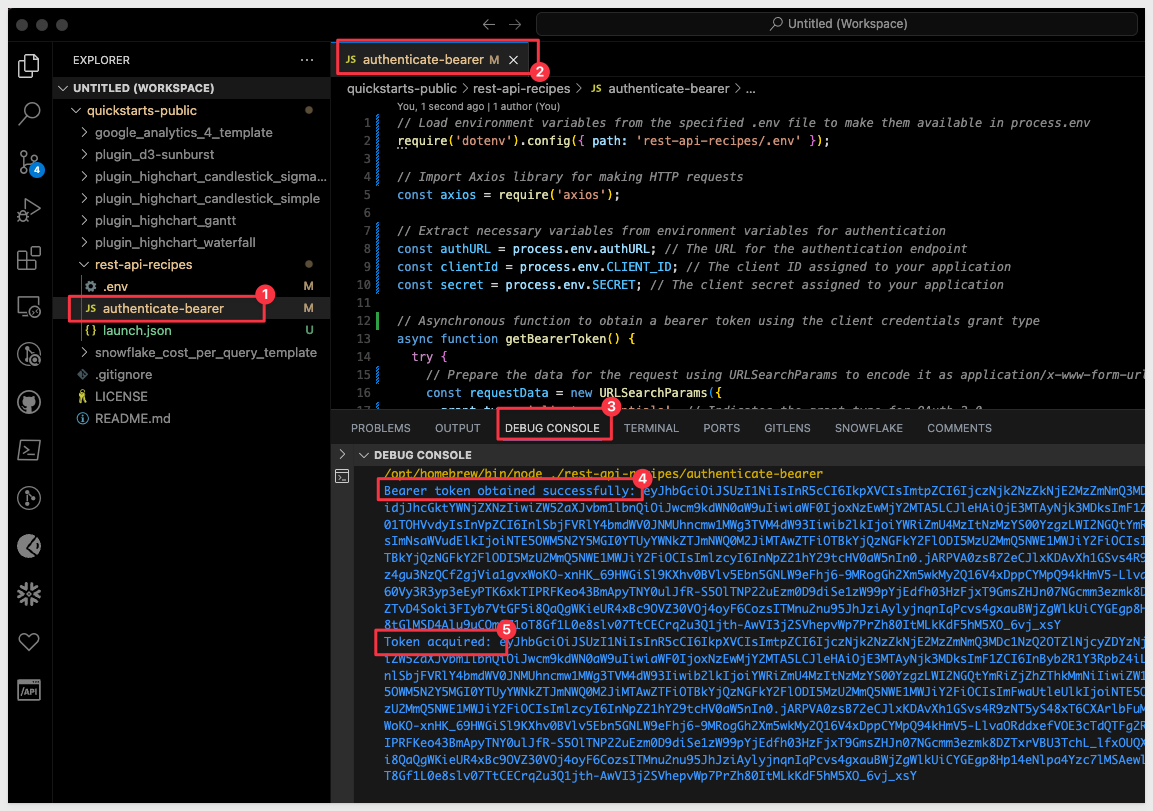
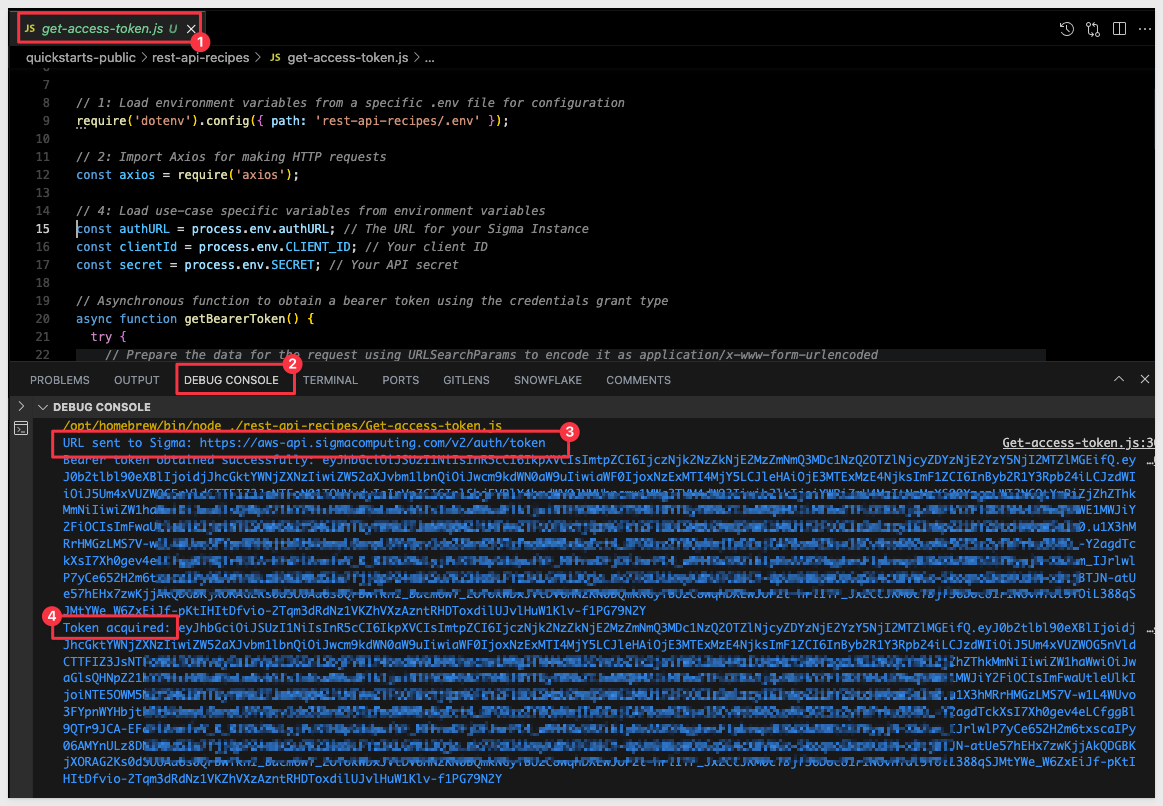
wip

diff --git a/site/sigmaguides/src/administration_api_code_samples/administration_api_code_samples.md b/site/sigmaguides/src/administration_api_code_samples/administration_api_code_samples.md
@@ -15,7 +15,9 @@ Duration: 5
 
 This QuickStart is designed to support Sigma's [API Code Samples](https://help.sigmacomputing.com/recipes) and will demonstrate some common operations that customers may use the REST API for.
 
-All code samples provided here are based on javaScript, although [Sigma's Swagger](https://help.sigmacomputing.com/reference/explanation) provides code snippets for all the most common languages.
+The actual code shown is available in Sigma's [quickstart-public git repository](https://github.com/sigmacomputing/quickstarts-public)
+
+All code samples provided here are based on javaScript, although [Sigma's Swagger](https://help.sigmacomputing.com/reference/explanation) provides code snippets for all the most common languages, including [curl.](https://curl.se/)
 
 ### Target Audience
 Developers who are evaluating or working with Sigma's REST API. 
@@ -168,25 +170,28 @@ Save the file.
 <!-- END OF SECTION-->
 
 ## Authentication - REQUIRED
-In this step, we will look at a script that authenticates to the [get access token endpoint](https://help.sigmacomputing.com/reference/token) and returns a bearer token (token)
+This section demonstrates the code that was provided on the `API Code Samples` > `Authentication: Get Access Token` page, [located here.](https://help.sigmacomputing.com/recipes/authentication-get-access-token)
+
+In this step, we will look at a script that authenticates to the [get access token endpoint](https://help.sigmacomputing.com/reference/token) and returns a bearer token (token).
 
 <aside class="positive">
 <strong>IMPORTANT:</strong><br> The token is valid for 3599 seconds (just under one hour) and needs to be refreshed.
 </aside>
 
-It also exports a Javascript function to request a bearer token (token) each time it is called. We can reference this function from any other API scripts we create, saving time later.
+It also exports a Javascript function to request a bearer token (token) each time it is called. 
+
+We reference this function from other API scripts we create later, saving time and simplifying code.
 
 <aside class="positive">
 <strong>IMPORTANT:</strong><br> The token is valid for 3599 seconds (just under one hour) and needs to be refreshed. Our Javascript function will handle that.
 </aside>
 
-Open the file `authenticate-bearer` and review it's contents. Each section is commented so it can be understood. 
+
+In the project root directory, open the file `get-access-token.js` and review it's contents. Each section is commented so it can be understood. 
 
 Start the VSCode debugger against this code by pressing `F5` on your keyboard.
 
-If prompted by VSCode to select a debugger, select `Node.js`:
-
-<img src="assets/apics15.png" width="800"/>
+If prompted by VSCode to select a debugger, select `Node.js`.
 
 The VSCode debugger console will show this API response if the .env variables are configured correctly:
 
@@ -194,17 +199,52 @@ The VSCode debugger console will show this API response if the .env variables ar
 
 The script is configured to run standalone as well as export a function that we can call from other scripts too. 
 
+This is why we show the bearer token twice in the response. Other scripts that call this one, will only show the token one time in the console.
+
 The ability to run it standalone is only for convenience, so that we can verify it obtains a token.
 
-We can now move on to use cases, leveraging the `getBearerToken` function.
+We can now move on to use cases, leveraging the `getBearerToken` function:
+
+<img src="assets/apics21.png" width="800"/>
 
 ![Footer](assets/sigma_footer.png)
 <!-- END OF SECTION-->
 
-## Change a Members's Account Type
+## Members: List
 Duration: 20
 
-With our system setup and getting a bearer token from the authentication endpoint, we can try our first script. 
+We will start with a very simple example that calls the `Members` > `Get` endpoint, [found here.](https://help.sigmacomputing.com/reference/listmembers-1)
+
+This section demonstrates the code that was provided on the `API Code Samples` > `Member: List` page, [located here.](https://help.sigmacomputing.com/recipes/members-list)
+
+<aside class="positive">
+<strong>IMPORTANT:</strong><br> This script will call the get-access-token > getBearerToken function to get a new/refreshed token automatically so there is no need to do anything else, assuming you have completed the section of this QuickStart "Authentication - REQUIRED" and ensured your .env file is configured correctly.
+</aside>
+
+### Running the Script
+Open the file `list-simple.js` in the `members` folder:
+
+<img src="assets/apics23.png" width="800"/>
+
+Each code block is commented to explain what operations are being performed. 
+
+Press `F5` to run the script with VSCode's debugger. 
+
+The expected response is:
+
+<img src="assets/apics24.png" width="800"/>
+
+![Footer](assets/sigma_footer.png)
+<!-- END OF SECTION-->
+
+## Members: Update
+Duration: 20
+
+This section demonstrates the code that was provided on the `API Code Samples` > `Member: Update` page, [located here.](https://help.sigmacomputing.com/recipes/members-update)
+
+<aside class="positive">
+<strong>IMPORTANT:</strong><br> This script will call the get-access-token > getBearerToken function to get a new/refreshed token automatically so there is no need to do anything else, assuming you have completed the section of this QuickStart "Authentication - REQUIRED" and ensured your .env file is configured correctly.
+</aside>
 
 ### Create Test Member
 Let's create new member in Sigma to test with. 
@@ -235,7 +275,7 @@ NEW_MEMBER_TYPE=Creator
 
 <img src="assets/apics17.png" width="800"/>
 
-### Change Test Members's Account Type
+### Change Test Members' Account Type
 Our test user is currently a `Viewer` account type. We want to call the Sigma API endpoint to `Update the specified member` account type to `Creator`.
 
 <img src="assets/apics9.png" width="800"/>
@@ -243,7 +283,9 @@ Our test user is currently a `Viewer` account type. We want to call the Sigma AP
 We will be using the [Update the specified member](https://help.sigmacomputing.com/reference/updatemember-1) endpoint.
 
 ### Running the Script
-Open the file `change-member-account-type.js`. 
+Open the file `update.js` in the `members` folder:
+
+<img src="assets/apics22.png" width="800"/>
 
 Each code block is commented to explain what operations are being performed. 
 
@@ -260,16 +302,23 @@ A quick check against the member in Sigma shows them having the `Creator` accoun
 ![Footer](assets/sigma_footer.png)
 <!-- END OF SECTION-->
 
-## Workbooks Last Accessed for a Member
+## Members: Recent Workbooks
 Duration: 20
+
+This section demonstrates the code that was provided on the `API Code Samples` > `Member: Recent Workbooks` page, [located here.](https://help.sigmacomputing.com/recipes/members-recent-workbooks)
+
+<aside class="positive">
+<strong>IMPORTANT:</strong><br> This script will call the get-access-token > getBearerToken function to get a new/refreshed token automatically so there is no need to do anything else, assuming you have completed the section of this QuickStart "Authentication - REQUIRED" and ensured your .env file is configured correctly.
+</aside>
+
 
 In this use case, we want to return a list of the Workbooks (by name), the permission and when they last accessed for each Workbook, ordered by most recent first.
 
 Open the file called `.env` and ensure that the memberID is set for someone who has accessed Workbooks in your Sigma instance. In a trial environment, pick someone who is very active or yourself if that is the case. As long as there is activity, it does not matter otherwise.
 
-If you are not sure how to obtain a memberID, review the section called `Create Test Member` in the step called `Change a Members's Account Type`.
+If you are not sure how to obtain a memberID, review the section called `Create Test Member` in the step called `Member: Update`.
 
-Open the file called `most-recent-workbook-access.js`.
+Open the file called `recent-workbooks.js` in the `members` folder.
 
 Each code block is commented to explain what operations are being performed. 
 
@@ -282,8 +331,14 @@ The expected response is:
 ![Footer](assets/sigma_footer.png)
 <!-- END OF SECTION-->
 
-## Pagination   NEEDS WORK AND CLARIFICATION FROM SAM S.
+## Members: Pagination   NEEDS WORK AND CLARIFICATION FROM SAM S.
 Duration: 20
+
+This section demonstrates the code that was provided on the `API Code Samples` > `Members: Pagination` page, [located here.](https://help.sigmacomputing.com/recipes/members-paginatation)
+
+<aside class="positive">
+<strong>IMPORTANT:</strong><br> This script will call the get-access-token > getBearerToken function to get a new/refreshed token automatically so there is no need to do anything else, assuming you have completed the section of this QuickStart "Authentication - REQUIRED" and ensured your .env file is configured correctly.
+</aside>
 
 Query parameters page and limit are commonly used together in APIs to implement pagination. This mechanism allows clients to request data in discrete chunks or "pages", making it easier to handle large datasets. Here's how these parameters typically work together in API use cases:
 
@@ -317,17 +372,65 @@ In Sigma, this is a `string` value.
 ![Footer](assets/sigma_footer.png)
 <!-- END OF SECTION-->
 
-## **NEXT SECTION**
+## Members: Create New
+Duration: 20
+
+This section demonstrates the code that was provided on the `API Code Samples` > `Member: Create New` page, [located here.](https://help.sigmacomputing.com/recipes/members-create-new/members-list)
+
+### Required Body Parameters
+Open the `.env` file and add the required parameters. You will need to provide different values as shown below:
+```code
+NEW_MEMBER_EMAIL=someone@company.com
+NEW_MEMBER_FIRST_NAME=API
+NEW_MEMBER_LAST_NAME=Generated
+NEW_MEMBER_TYPE=Viewer
+```
+
+<img src="assets/apics25.png" width="800"/>
+
+Save the changes.
+
+### Running the Script
+
+Open the file `create-new.js` in the `members` folder:
+
+Each code block is commented to explain what operations are being performed. 
+
+Press `F5` to run the script with VSCode's debugger. 
+
+The expected response is:
+
+<img src="assets/apics26.png" width="800"/>
+
+
+
+
+
+![Footer](assets/sigma_footer.png)
+<!-- END OF SECTION-->
+
+## export_workbook.py
 Duration: 20
 
 ![Footer](assets/sigma_footer.png)
 <!-- END OF SECTION-->
 
-## **NEXT SECTION**
+
+## onboard_member.py
 Duration: 20
 
 ![Footer](assets/sigma_footer.png)
 <!-- END OF SECTION-->
+
+
+
+
+
+
+
+
+
+
 
 ## Hold content
 Duration: 20
@@ -357,7 +460,7 @@ INSERT FINAL IMAGE OF BUILD IF APPROPRIATE
 [Community](https://community.sigmacomputing.com/)<br>
 [Help Center](https://help.sigmacomputing.com/hc/en-us)<br>
 [QuickStarts](https://quickstarts.sigmacomputing.com/)<br>
-=======
+
 Be sure to check out all the latest developments at [Sigma's First Friday Feature page!](https://quickstarts.sigmacomputing.com/firstfridayfeatures/)
 <br>
 
